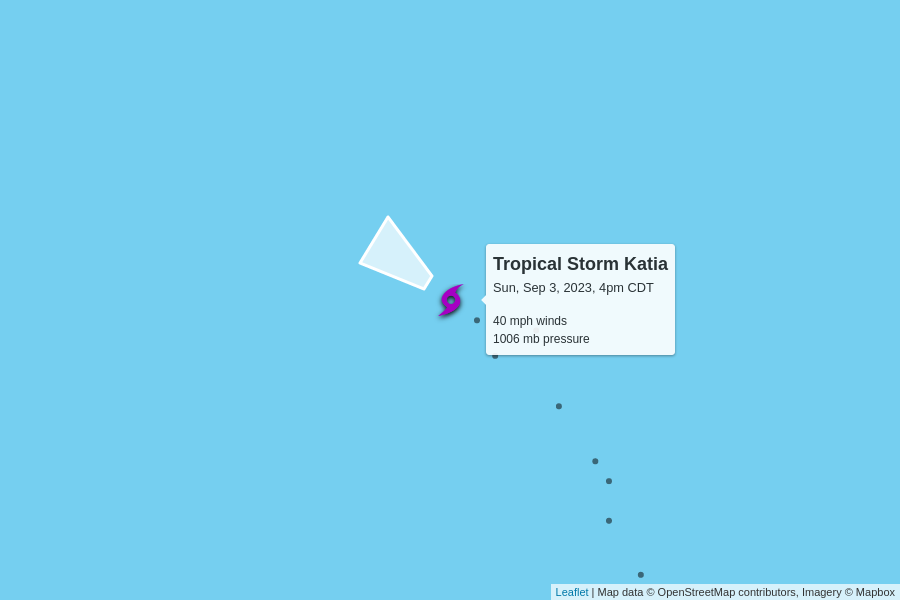
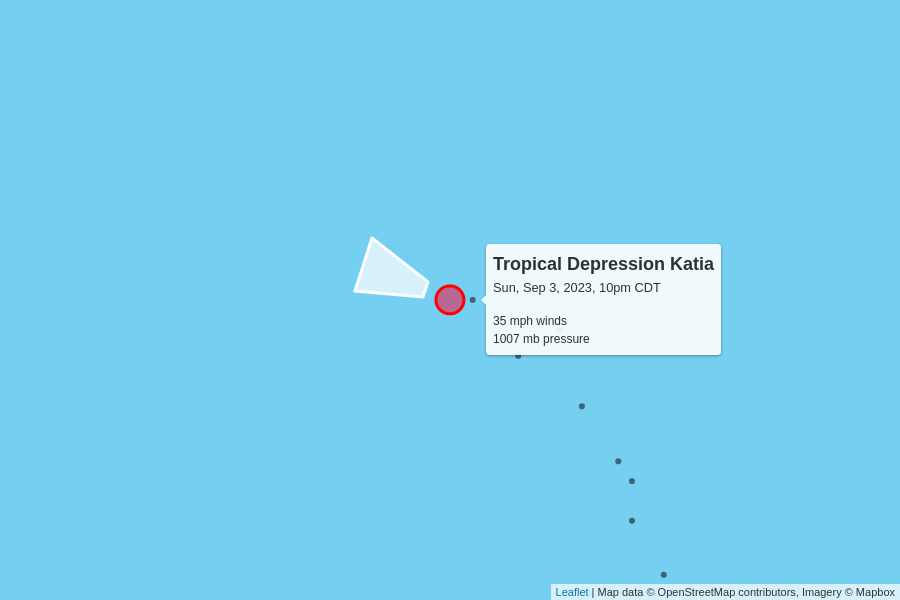
automatic update

Changed region(s): [[0.6222, 0.39, 0.8089, 0.6], [0.3733, 0.36, 0.56, 0.54]]

diff --git a/docs/index.html b/docs/index.html
@@ -104,7 +104,7 @@
         <td colspan="6" class="storm category-0" >
           <h2>
             Tropical Storm Gert
-            <p class="updated">last updated <span data-time>2023-09-03T21:00:00.000Z</span></p>
+            <p class="updated">last updated <span data-time>2023-09-04T03:00:00.000Z</span></p>
           </h2>
         </td>
       </tr>
@@ -119,12 +119,12 @@
       </tr>
       <tr>
         <td class="spacer"></td>
-        <td>50 mph<br>-10 mph since last update</td>
-        <td>999 mb<br>+2 mb since last update</td>
+        <td>50 mph<br>0 mph since last update</td>
+        <td>1000 mb<br>+1 mb since last update</td>
         <td>
-          18 mph to the north-northeast
+          22 mph to the north
           <br/>
-          <span style="display: inline-block; font-size: 1.5em; transform: rotate(25deg);">↑</span>
+          <span style="display: inline-block; font-size: 1.5em; transform: rotate(10deg);">↑</span>
         </td>
         <td><a href="https://raw.githubusercontent.com/mgwalker/atlantic-hurricanes/main/data/csv/AL062023.csv">AL062023.csv</a></td>
         <td><a href="https://www.nhc.noaa.gov/archive/2023/GERT.shtml?">NHC advisories</a></td>
@@ -147,8 +147,8 @@
       <tr>
         <td colspan="6" class="storm category-0" >
           <h2>
-            Tropical Storm Katia
-            <p class="updated">last updated <span data-time>2023-09-03T21:00:00.000Z</span></p>
+            Tropical Depression Katia
+            <p class="updated">last updated <span data-time>2023-09-04T03:00:00.000Z</span></p>
           </h2>
         </td>
       </tr>
@@ -163,12 +163,12 @@
       </tr>
       <tr>
         <td class="spacer"></td>
-        <td>40 mph<br>0 mph since last update</td>
-        <td>1006 mb<br>0 mb since last update</td>
+        <td>35 mph<br>-5 mph since last update</td>
+        <td>1007 mb<br>+1 mb since last update</td>
         <td>
-          7 mph to the northwest
+          6 mph to the west-northwest
           <br/>
-          <span style="display: inline-block; font-size: 1.5em; transform: rotate(305deg);">↑</span>
+          <span style="display: inline-block; font-size: 1.5em; transform: rotate(290deg);">↑</span>
         </td>
         <td><a href="https://raw.githubusercontent.com/mgwalker/atlantic-hurricanes/main/data/csv/AL122023.csv">AL122023.csv</a></td>
         <td><a href="https://www.nhc.noaa.gov/archive/2023/KATIA.shtml?">NHC advisories</a></td>
